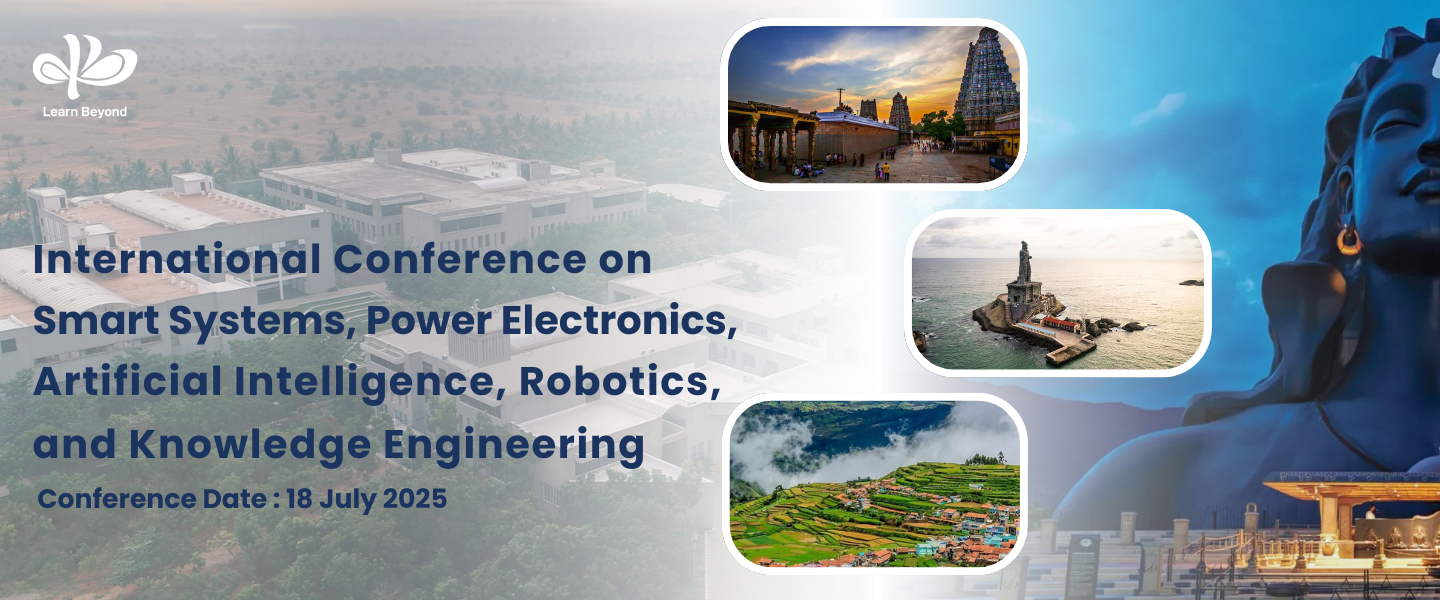
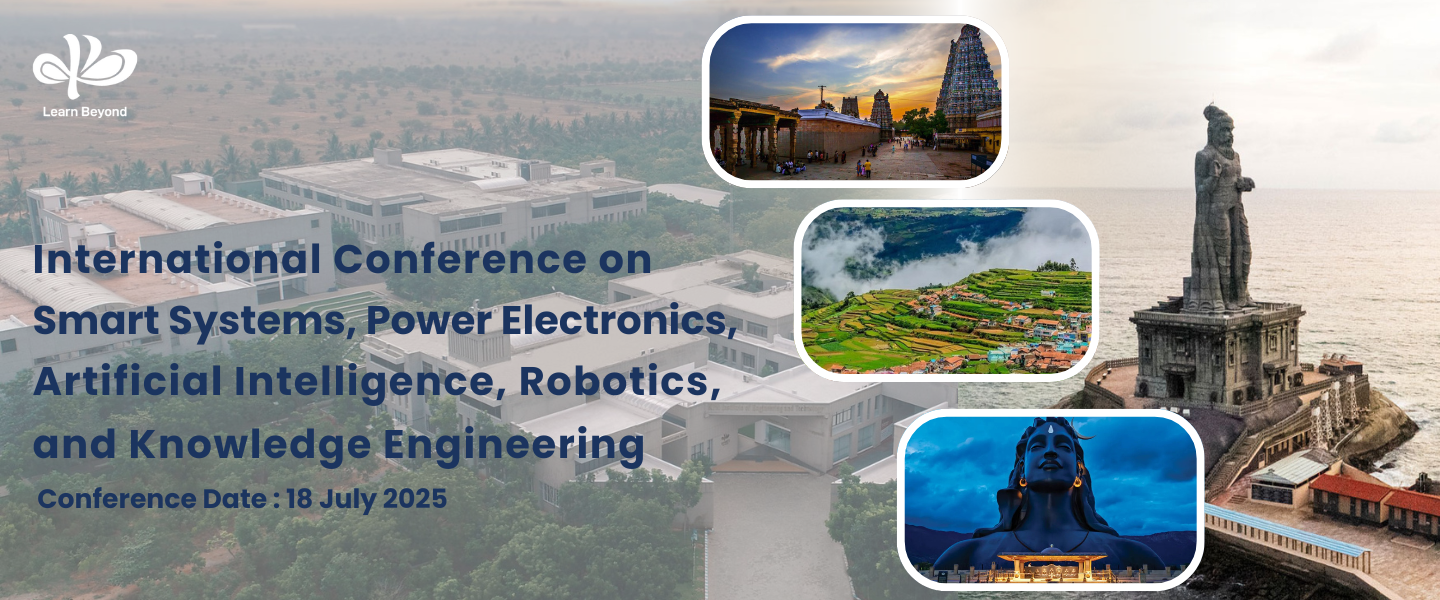
poster update

diff --git a/src/pages/home.jsx b/src/pages/home.jsx
@@ -1,7 +1,7 @@
 import "../styles/home.css";
 import Countdown from "./timer";
 import Slider from "./slider";
-import bgposter from "../assets/bg-poster-kpr.png";
+import bgposter from "../assets/bg-poster-kpr (1).png";
 import Sidebar from './sidebar';
 
 
